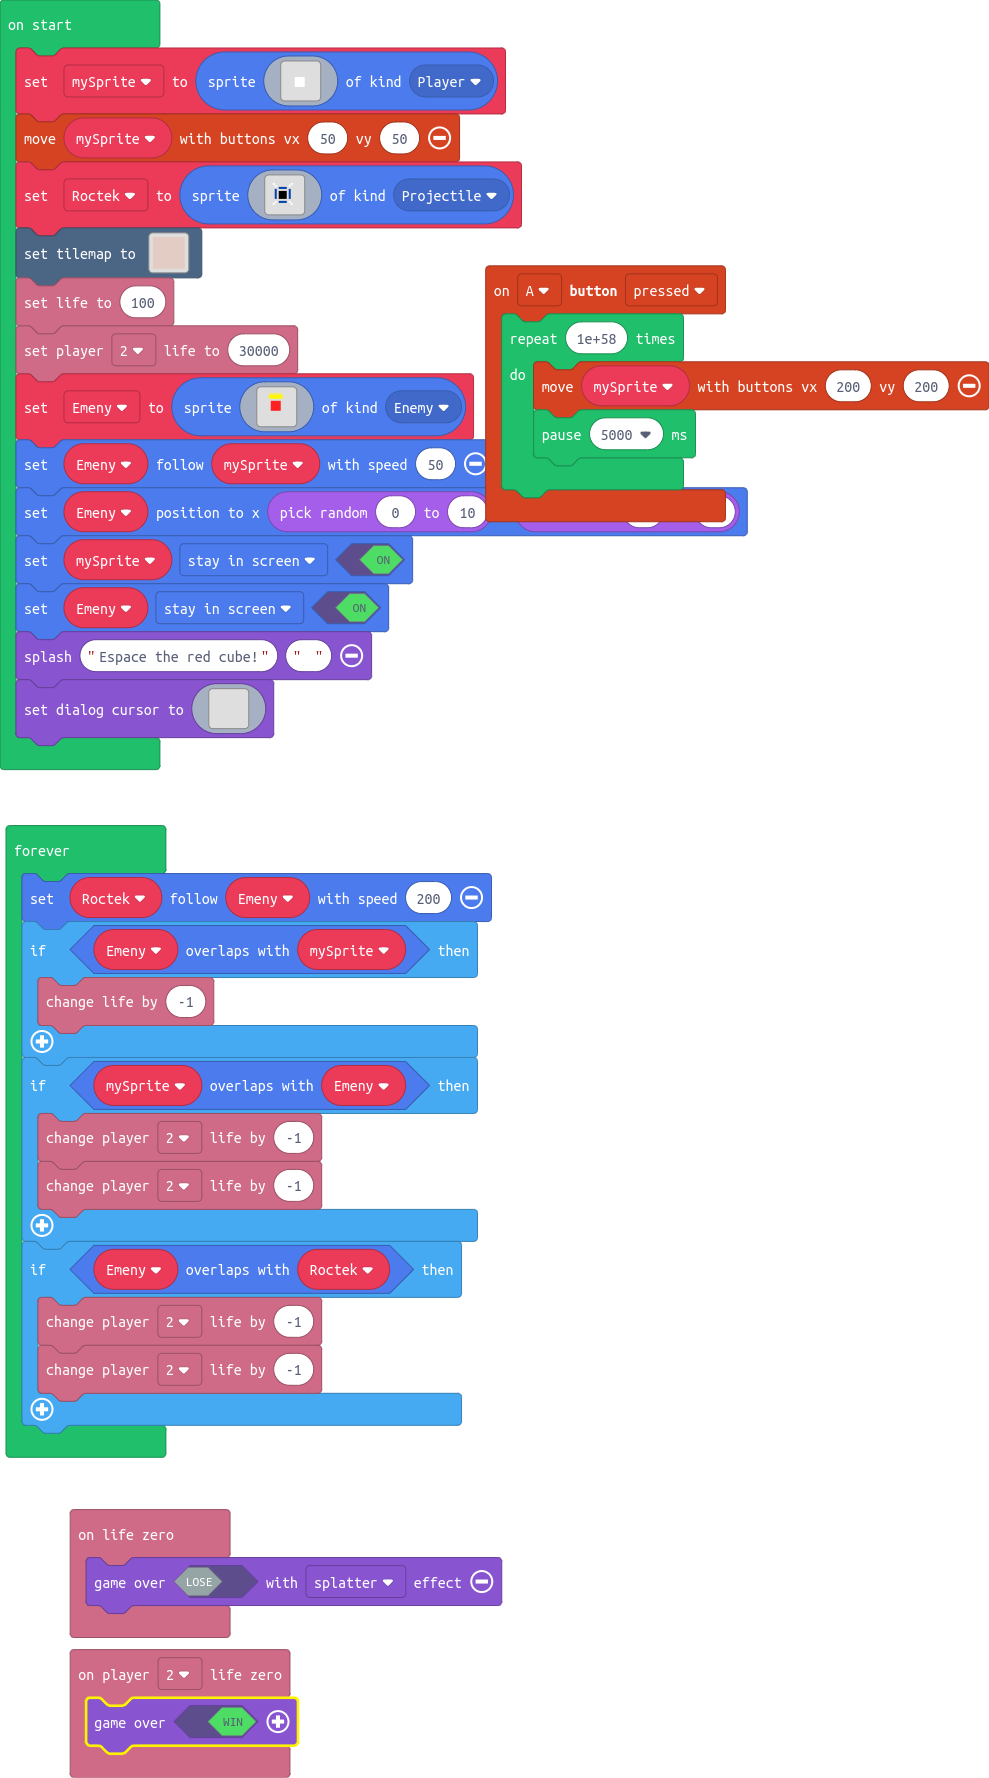
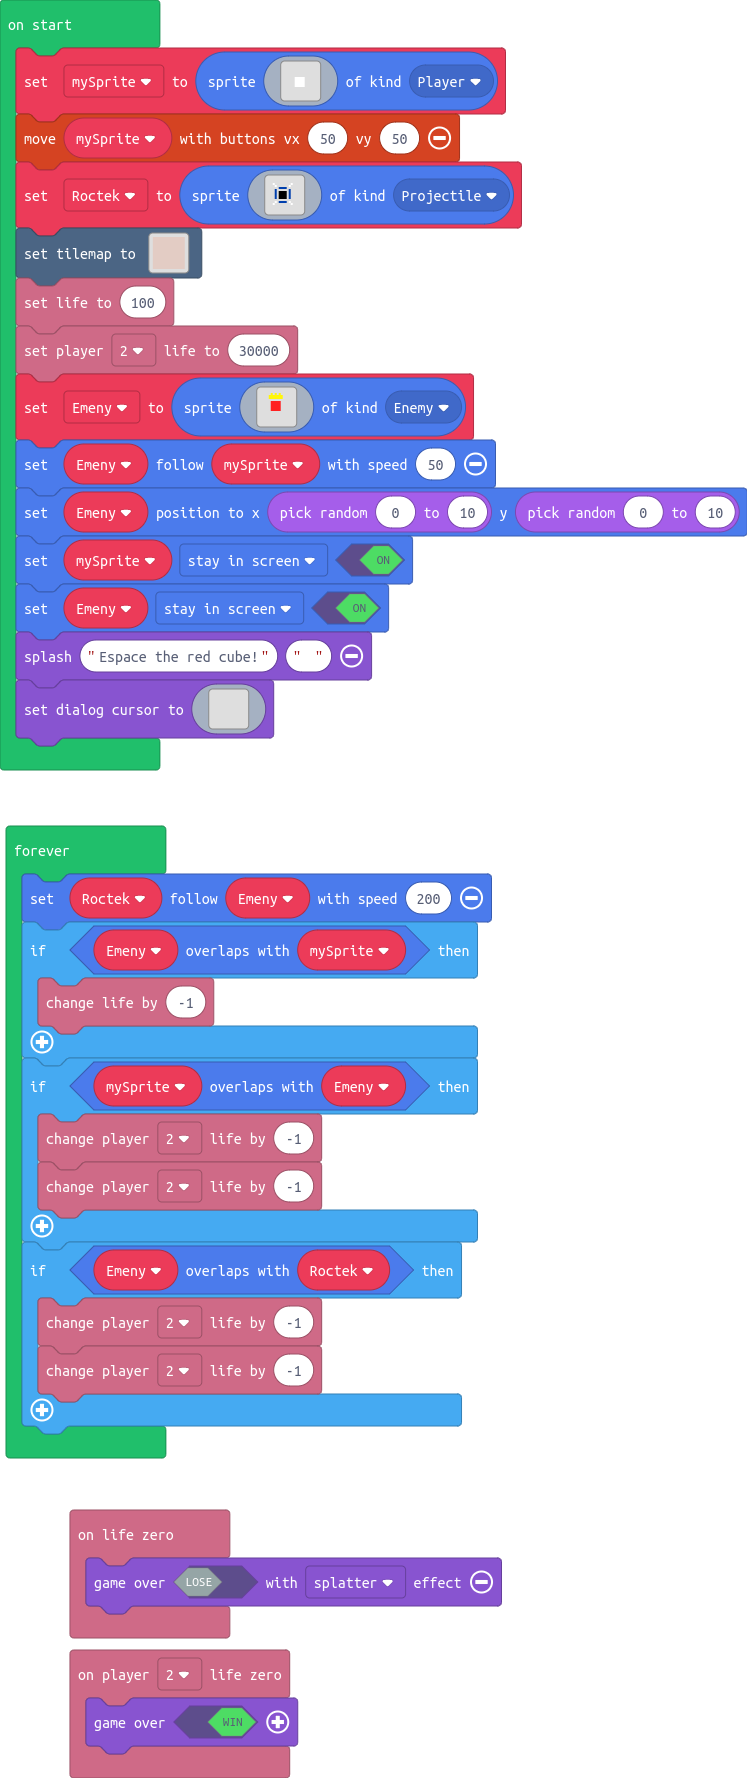
Removed this op speed when espacing the red cude.

Changed region(s): [[0.0, 0.0, 1.0, 0.4331], [0.0, 0.464, 0.6774, 1.0]]

diff --git a/main.ts b/main.ts
@@ -25,17 +25,10 @@ namespace myTiles {
 info.player2.onLifeZero(function () {
     game.over(true)
 })
-controller.A.onEvent(ControllerButtonEvent.Pressed, function () {
-    for (let index = 0; index < 1e+58; index++) {
-        controller.moveSprite(mySprite, 200, 200)
-        pause(5000)
-    }
-})
 info.onLifeZero(function () {
     game.over(false, effects.splatter)
 })
-let mySprite: Sprite = null
-mySprite = sprites.create(img`
+let mySprite = sprites.create(img`
 . . . . . . . . . . . . . . . . 
 . . . . . . . . . . . . . . . . 
 . . . . . . . . . . . . . . . . 
